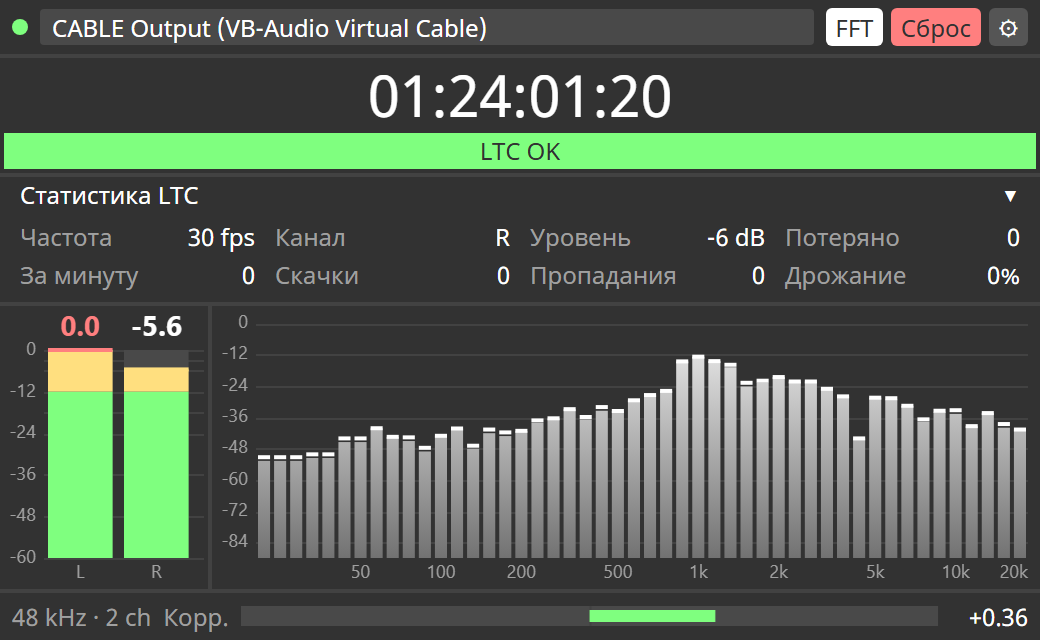
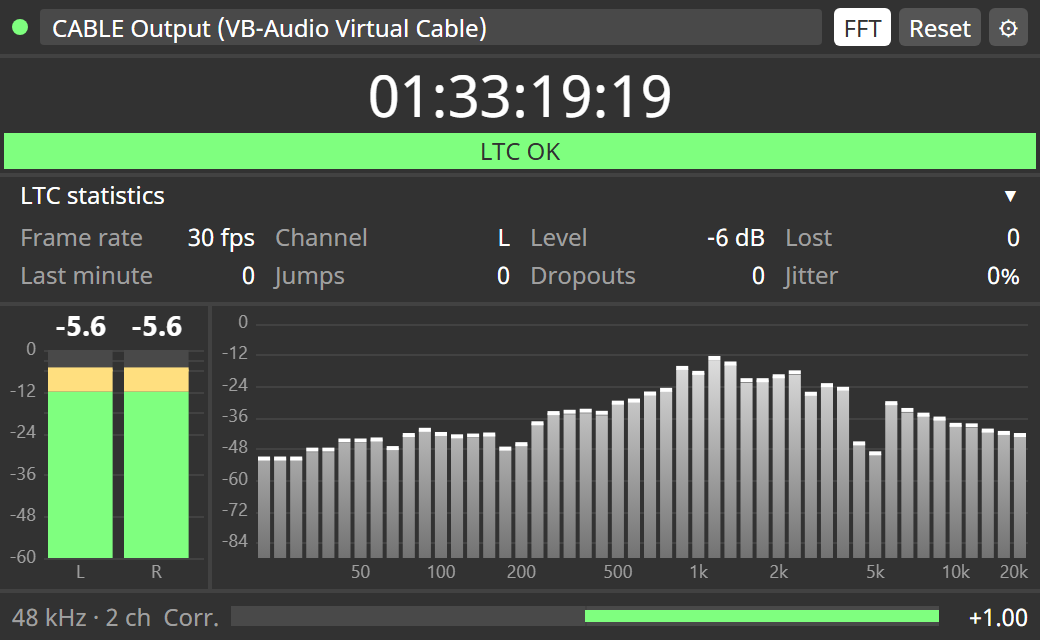
Translate plugin UI and agent messages to English
Labels, statuses, LTC events and device errors are now in English;
READMEs and the screenshot follow the new UI.

diff --git a/plugin/index.html b/plugin/index.html
@@ -13,34 +13,34 @@
 </head>
 <body class="d3-app d3-embedded">
 <header>
-  <span id="status" class="dot off" title="Связь с агентом"></span>
-  <select id="deviceSelect" class="d3-field" title="Устройство"></select>
+  <span id="status" class="dot off" title="Connection to the agent"></span>
+  <select id="deviceSelect" class="d3-field" title="Device"></select>
   <div class="buttons">
-    <button id="toggleSpectrum" class="d3-button" title="Показать/скрыть спектр">FFT</button>
-    <button id="resetPeaks" class="d3-button" title="Сбросить пики, клип и счётчики LTC">Сброс</button>
-    <button id="toggleSettings" class="d3-button" title="Настройки подключения">⚙</button>
+    <button id="toggleSpectrum" class="d3-button" title="Show/hide spectrum">FFT</button>
+    <button id="resetPeaks" class="d3-button" title="Reset peaks, clip and LTC counters">Reset</button>
+    <button id="toggleSettings" class="d3-button" title="Connection settings">⚙</button>
   </div>
 </header>
 <div id="settings" class="d3-row" hidden>
-  <span class="d3-label">Агент</span>
+  <span class="d3-label">Agent</span>
   <input id="agent" class="d3-field" spellcheck="false">
-  <button id="reconnect" class="d3-button">Подключить</button>
+  <button id="reconnect" class="d3-button">Connect</button>
 </div>
 <div id="errorBar" class="d3-banner" hidden></div>
 <div id="ltcBar" hidden>
   <div id="ltcTc" class="d3-hero stale">--:--:--:--</div>
   <div id="ltcStatus" class="d3-status">—</div>
-  <div id="ltcSection" class="d3-section">Статистика LTC</div>
+  <div id="ltcSection" class="d3-section">LTC statistics</div>
   <div class="d3-section-body">
     <div class="d3-grid">
-      <div class="d3-row nw"><span class="d3-label">Частота</span><span class="d3-value" id="ltcRate">—</span></div>
-      <div class="d3-row nw"><span class="d3-label">Канал</span><span class="d3-value" id="ltcCh">—</span></div>
-      <div class="d3-row nw"><span class="d3-label">Уровень</span><span class="d3-value" id="ltcLevel">—</span></div>
-      <div class="d3-row nw"><span class="d3-label">Потеряно</span><span class="d3-value" id="ltcLost">—</span></div>
-      <div class="d3-row nw"><span class="d3-label">За минуту</span><span class="d3-value" id="ltcMinute">—</span></div>
-      <div class="d3-row nw"><span class="d3-label">Скачки</span><span class="d3-value" id="ltcJumps">—</span></div>
-      <div class="d3-row nw"><span class="d3-label">Пропадания</span><span class="d3-value" id="ltcDrops">—</span></div>
-      <div class="d3-row nw"><span class="d3-label">Дрожание</span><span class="d3-value" id="ltcJitter">—</span></div>
+      <div class="d3-row nw"><span class="d3-label">Frame rate</span><span class="d3-value" id="ltcRate">—</span></div>
+      <div class="d3-row nw"><span class="d3-label">Channel</span><span class="d3-value" id="ltcCh">—</span></div>
+      <div class="d3-row nw"><span class="d3-label">Level</span><span class="d3-value" id="ltcLevel">—</span></div>
+      <div class="d3-row nw"><span class="d3-label">Lost</span><span class="d3-value" id="ltcLost">—</span></div>
+      <div class="d3-row nw"><span class="d3-label">Last minute</span><span class="d3-value" id="ltcMinute">—</span></div>
+      <div class="d3-row nw"><span class="d3-label">Jumps</span><span class="d3-value" id="ltcJumps">—</span></div>
+      <div class="d3-row nw"><span class="d3-label">Dropouts</span><span class="d3-value" id="ltcDrops">—</span></div>
+      <div class="d3-row nw"><span class="d3-label">Jitter</span><span class="d3-value" id="ltcJitter">—</span></div>
     </div>
     <div id="ltcEvent" class="d3-caption ltc-event"></div>
   </div>
@@ -55,8 +55,8 @@
 </main>
 <footer>
   <span id="format" class="d3-muted"></span>
-  <span class="d3-muted nw" title="Стереокорреляция">Корр.</span>
-  <canvas id="corr" title="Стереокорреляция: +1 моно, 0 широкое стерео, &lt;0 противофаза"></canvas>
+  <span class="d3-muted nw" title="Stereo correlation">Corr.</span>
+  <canvas id="corr" title="Stereo correlation: +1 mono, 0 wide stereo, &lt;0 out of phase"></canvas>
   <span id="corrValue">—</span>
 </footer>
 <script src="app.js"></script>

diff --git a/plugin/app.js b/plugin/app.js
@@ -53,7 +53,7 @@ function connect() {
   ws.onmessage = (e) => onMessage(JSON.parse(e.data));
   ws.onclose = () => {
     $("status").classList.remove("on");
-    $("format").textContent = `нет подключения к ${agent}, повтор…`;
+    $("format").textContent = `no connection to ${agent}, retrying…`;
     retryTimer = setTimeout(connect, 2000);
   };
 }
@@ -111,12 +111,12 @@ function savedDevice() {
 function fillDevices(msg) {
   const sel = $("deviceSelect");
   sel.replaceChildren();
-  const groups = { out: "Выходы", in: "Входы (LTC)" };
+  const groups = { out: "Outputs", in: "Inputs (LTC)" };
   for (const kind of ["out", "in"]) {
     const g = document.createElement("optgroup");
     g.label = groups[kind];
     for (const d of msg.devices.filter((x) => x.kind === kind)) {
-      g.append(new Option(d.id === msg.default ? `${d.name} (системное)` : d.name, d.id));
+      g.append(new Option(d.id === msg.default ? `${d.name} (system default)` : d.name, d.id));
     }
     if (g.children.length) sel.append(g);
   }
@@ -171,18 +171,18 @@ function renderLtc() {
   if ($("ltcBar").hidden) return;
   const l = state.ltc, base = state.ltcBase;
   const status = $("ltcStatus");
-  let cls = "bad", text = "LTC не найден";
+  let cls = "bad", text = "NO LTC FOUND";
   if (l) {
     const d = (k) => l[k] - (base ? base[k] : 0);
     const ch = l.ch;
     const peak = state.maxPeak[ch], now = state.peak[ch];
     const recentEvent = l.lastEvent && l.lastEvent.ago < LTC_RECENT_S;
     const recentBad = Date.now() - state.ltcBadAt < LTC_RECENT_S * 1000;
-    if (!l.locked) { cls = "bad"; text = `НЕТ СИГНАЛА · ${l.missing} кадр.`; }
+    if (!l.locked) { cls = "bad"; text = `NO SIGNAL · ${l.missing} frames`; }
     // LTC has no business near full scale: -1 dBFS already risks clipped edges.
-    else if (peak > LTC_HOT_DB) { cls = "warn"; text = "ПЕРЕГРУЗ"; }
-    else if (recentEvent || recentBad) { cls = "warn"; text = "НЕСТАБИЛЬНО"; }
-    else if (now < -40) { cls = "warn"; text = "СЛАБЫЙ"; }
+    else if (peak > LTC_HOT_DB) { cls = "warn"; text = "OVERLOAD"; }
+    else if (recentEvent || recentBad) { cls = "warn"; text = "UNSTABLE"; }
+    else if (now < -40) { cls = "warn"; text = "WEAK"; }
     else { cls = "ok"; text = "LTC OK"; }
 
     $("ltcTc").textContent = l.tc + (l.reverse ? " ◀" : "");
@@ -199,12 +199,12 @@ function renderLtc() {
     setVal("ltcDrops", d("dropouts"), d("dropouts") > 0);
     setVal("ltcJitter", l.locked ? `${l.jitter}%` : "—");
     $("ltcEvent").textContent = l.lastEvent && l.lastEvent.ago < 120
-      ? `${Math.round(l.lastEvent.ago)} с назад: ${l.lastEvent.text}` : "";
+      ? `${Math.round(l.lastEvent.ago)} s ago: ${l.lastEvent.text}` : "";
   } else {
     $("ltcTc").textContent = "--:--:--:--";
     $("ltcTc").classList.add("stale");
     for (const id of ["ltcRate", "ltcCh", "ltcLevel", "ltcLost", "ltcMinute", "ltcJumps", "ltcDrops", "ltcJitter"]) setVal(id, "—");
-    $("ltcEvent").textContent = "ищу таймкод на всех каналах…";
+    $("ltcEvent").textContent = "searching all channels for timecode…";
   }
   status.className = `d3-status ${cls}`;
   status.textContent = text;

diff --git a/agent/ltc.py b/agent/ltc.py
@@ -223,10 +223,10 @@ class LtcDecoder:
                 self.jumps += 1
                 delta = _frame_index(self.pending, base, df) - _frame_index(old, base, df)
                 if delta == -1:
-                    what = "повтор кадра"
+                    what = "repeated frame"
                 else:
-                    what = f"скачок {delta:+d} кадров ({delta / self.rate:+.2f} с)"
-                self._event(f"{what}: ждали {_tc_str(old, df)}, пришло {_tc_str(self.pending, df)}")
+                    what = f"jump {delta:+d} frames ({delta / self.rate:+.2f} s)"
+                self._event(f"{what}: expected {_tc_str(old, df)}, got {_tc_str(self.pending, df)}")
                 self.pending = None
             else:
                 # Unconfirmed: either a corrupted frame or the first frame of a jump.
@@ -240,7 +240,7 @@ class LtcDecoder:
             self._lose(gap)
             self.good += 1
             rate = self.rate or self.sr / self.frame_len
-            self._event(f"сигнал вернулся на {_tc_str(tc, df)}: пропало {gap} кадров ({gap / rate:.2f} с)")
+            self._event(f"signal back at {_tc_str(tc, df)}: {gap} frames lost ({gap / rate:.2f} s)")
         else:
             self.good += 1
 
@@ -257,7 +257,7 @@ class LtcDecoder:
             self.locked = False
             self.frame_pos = []
             self.dropouts += 1
-            self._event(f"пропал сигнал после {_tc_str(self.tc, self.df)}")
+            self._event(f"signal lost after {_tc_str(self.tc, self.df)}")
 
     def _lose(self, n):
         if n > 0:

diff --git a/agent/audio_meter.py b/agent/audio_meter.py
@@ -115,8 +115,8 @@ def list_devices(pa):
 
 
 MIC_CONSENT = r"Software\Microsoft\Windows\CurrentVersion\CapabilityAccessManager\ConsentStore\microphone"
-MIC_HELP = ("Windows не даёт Python доступ ко входам. Параметры → Конфиденциальность и защита → "
-            "Микрофон: включите доступ для Python / классических приложений, затем перезапустите агент.")
+MIC_HELP = ("Windows blocks Python from recording inputs. Settings → Privacy & security → "
+            "Microphone: allow access for Python / desktop apps, then restart the agent.")
 
 
 def _consent(root, path):
@@ -163,7 +163,7 @@ def open_with_timeout(open_fn, seconds):
     t.start()
     t.join(seconds)
     if t.is_alive():
-        raise OpenTimeout(f"устройство не открылось за {seconds:.0f} с")
+        raise OpenTimeout(f"device did not open within {seconds:.0f} s")
     if "error" in box:
         raise box["error"]
     return box["stream"]

diff --git a/README.ru.md b/README.ru.md
@@ -18,14 +18,17 @@
 - Стереокорреляция (+1 моно, 0 широкое стерео, < 0 противофаза)
 
 **Входы — контроль LTC-таймкода** (канал с таймкодом находится сам)
-- Крупный таймкод и статус: `LTC OK` / `НЕСТАБИЛЬНО` / `ПЕРЕГРУЗ` (пик выше −1 dBFS) /
-  `СЛАБЫЙ` (ниже −40 dBFS) / `НЕТ СИГНАЛА` (со счётчиком пропадающих кадров)
+- Крупный таймкод и статус: `LTC OK` / `UNSTABLE` (сбой за последние 10 с) /
+  `OVERLOAD` (пик выше −1 dBFS) / `WEAK` (ниже −40 dBFS) / `NO SIGNAL` (со счётчиком
+  пропадающих кадров)
 - Частота кадров: 23.976 / 24 / 25 / 29.97 DF / 30
 - **Потерянные кадры** с последнего сброса — количество и доля, плюс потери за последнюю минуту
-- Скачки с размером («скачок +250 кадров (+10.00 с)»; засчитываются, только если их
-  подтвердил следующий кадр, поэтому одиночный битый кадр не считается скачком),
-  повторы кадров, пропадания с длительностью («пропало 27 кадров (1.08 с)»)
+- Скачки с размером («jump +250 frames (+10.00 s): expected …, got …»; засчитываются,
+  только если их подтвердил следующий кадр, поэтому одиночный битый кадр не считается
+  скачком), повторы кадров, пропадания с длительностью («27 frames lost (1.08 s)»)
 - Дрожание фронтов как показатель качества сигнала
+
+Интерфейс плагина на английском.
 
 **Окно плагина**
 - Открывается маленьким (420×260) и масштабируется; текст переносится или

diff --git a/README.md b/README.md
@@ -18,22 +18,21 @@ styled like a native Designer widget.
 - Stereo correlation (+1 mono, 0 wide, < 0 out of phase)
 
 **Inputs — LTC timecode monitoring** (the channel carrying LTC is found automatically)
-- Large timecode readout and status: `LTC OK` / `НЕСТАБИЛЬНО` (unstable) /
-  `ПЕРЕГРУЗ` (overload, peak above −1 dBFS) / `СЛАБЫЙ` (weak, below −40 dBFS) /
-  `НЕТ СИГНАЛА` (no signal, with a live count of missing frames)
+- Large timecode readout and status: `LTC OK` / `UNSTABLE` (an event in the last
+  10 s) / `OVERLOAD` (peak above −1 dBFS) / `WEAK` (below −40 dBFS) /
+  `NO SIGNAL` (with a live count of missing frames)
 - Frame rate: 23.976 / 24 / 25 / 29.97 DF / 30
 - **Lost frames** since reset, as a count and a percentage, plus losses in the last minute
-- Jumps with their size (`скачок +250 кадров (+10.00 с)`, confirmed by two
-  consecutive frames so a single corrupted frame is not reported as a jump),
-  repeated frames, dropouts with their length (`пропало 27 кадров (1.08 с)`)
+- Jumps with their size (`jump +250 frames (+10.00 s): expected 10:00:20:00, got 10:00:30:00`,
+  confirmed by two consecutive frames so a single corrupted frame is not reported
+  as a jump), repeated frames, dropouts with their length
+  (`signal back at 10:00:41:01: 27 frames lost (1.08 s)`)
 - Edge jitter as a signal-quality figure
 
 **Plugin window**
 - Opens compact (420×260) and is resizable; text wraps or scales instead of being cut off
 - Several plugin windows can watch different devices at the same time
 - Device errors (e.g. missing microphone permission) are shown in full
-
-The UI text is in Russian.
 
 ## How it works
 
@@ -98,7 +97,7 @@ python tools/make_ltc_wav.py --fps 24
 ```
 
 Play them through a virtual cable (e.g. VB-Cable) or from a Designer timeline.
-Expected results are in `test/*.txt`.
+Expected results are in `test/*.txt` (in Russian).
 
 ## Project layout
 
